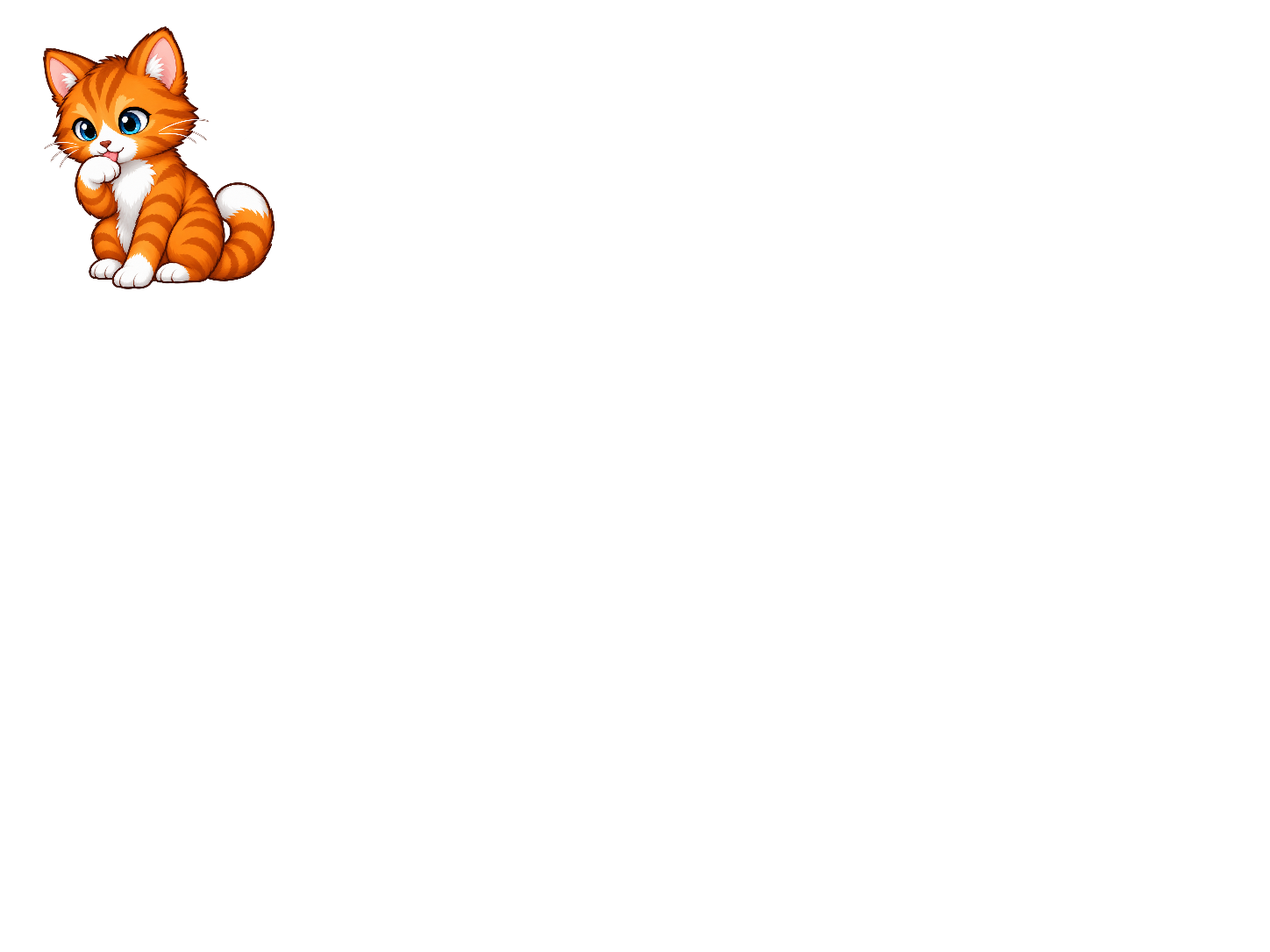
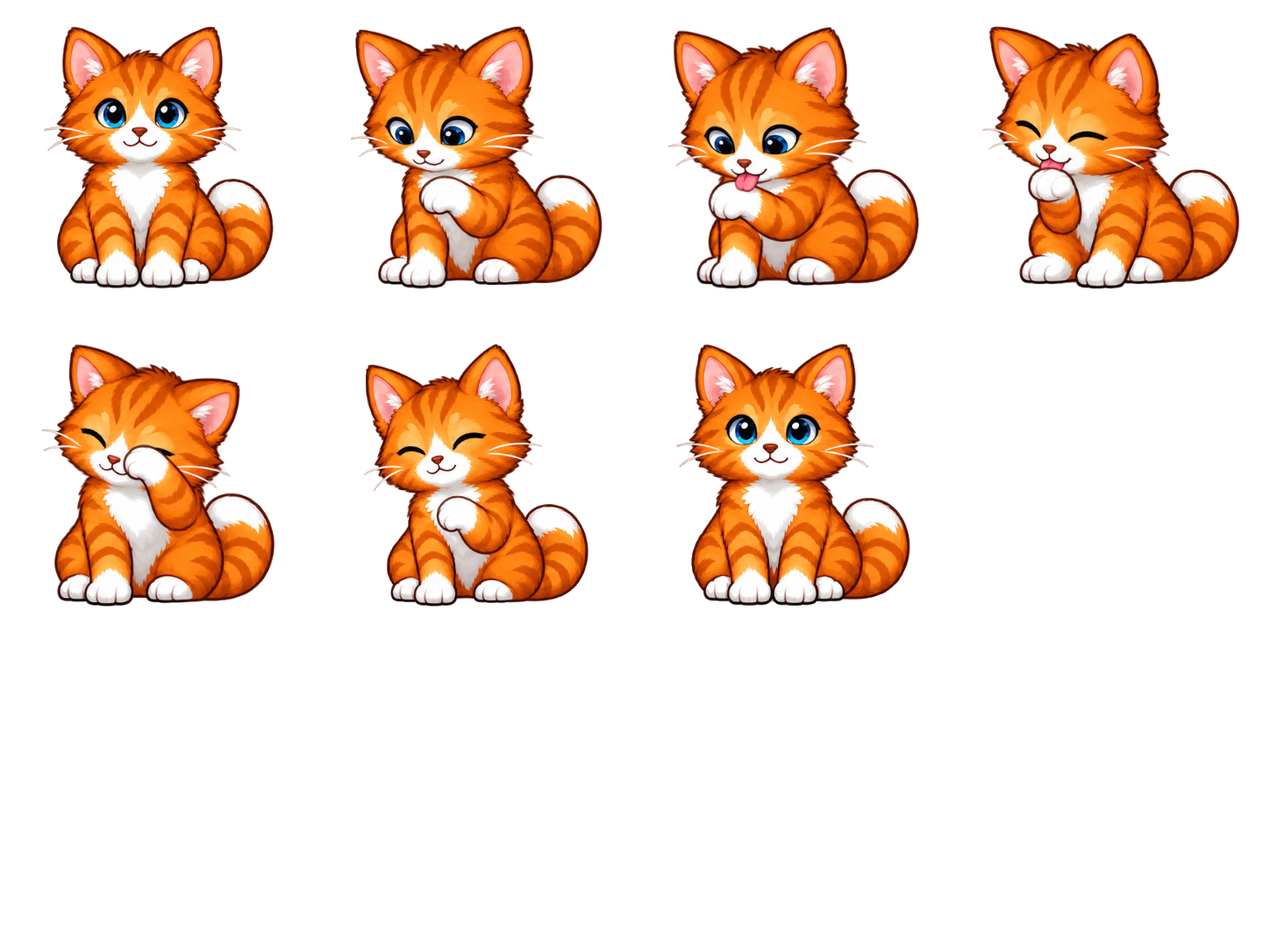
Refine yarn route and cat movement

diff --git a/src/hero-cat.js b/src/hero-cat.js
@@ -27,6 +27,7 @@ const atlasPaths = {
   fall: '/art/cat-fall-soft-v1/atlas.json',
   transition: '/art/cat-transition-soft-v1/atlas.json',
   groom: '/art/cat-groom-soft-v1/atlas.json',
+  route: '/art/cat-route-soft-v1/atlas.json',
 };
 const EXPECTED_VIEWPORT = {width:128,height:128,anchorX:64,anchorY:113};
 const HEAD_TOP_IN_FRAME = 27.5;
@@ -36,10 +37,13 @@ const SCARE_SCROLL = 30;
 const IDLE_SCROLL_SPAN = 96;
 const IDLE_IDS = ['idle-1','idle-2'];
 const FALL_GLOBAL_START = IDLE_IDS.length;
+const GROOM_POSE_IDS = ['groom-lick-1','groom-lick-2','groom-lick-3','groom-lick-4','groom-wipe-1','groom-lower-paw','groom-lick-settle'];
+const GROOM_GLOBAL_START = FALL_GLOBAL_START + FALL_SEQUENCE.length;
+const ROUTE_JUMP_IDS = ['route-jump-left-crouch','route-jump-left-launch','route-jump-left-airborne','route-jump-left-descend','route-jump-left-contact','route-jump-left-settle'];
+const ROUTE_GLOBAL_START = GROOM_GLOBAL_START + GROOM_POSE_IDS.length + 1;
 const ROUTE_LINE = .54;
 const HOP_MAX_SCROLL = 132;
 const GROOM_HOLD_SCROLL = 120;
-const FIRST_SHELF_HOP_SCROLL = 80;
 const YARN_PRECONTACT_SCROLL = 40;
 const ROUTE_POSES = ['fall-8','fall-9','twist-6','fall-8','fall-9','twist-6','fall-8','fall-9'];
 const LANDING_X = 48;
@@ -219,12 +223,18 @@ function setActionPose(id) {
   if(frame) setFallPose(frame);
 }
 
-function setGroomPose() {
-  setPose('groom',0,'groom-lick-1',FALL_GLOBAL_START+FALL_SEQUENCE.length);
+function setGroomPose(index=0) {
+  const pose=clamp(index,0,GROOM_POSE_IDS.length-1);
+  setPose('groom',pose,GROOM_POSE_IDS[pose],GROOM_GLOBAL_START+pose);
 }
 
 function setTogglePressPose() {
-  setPose('transition',12,'toggle-paw-press',FALL_GLOBAL_START+FALL_SEQUENCE.length+1);
+  setPose('transition',12,'toggle-paw-press',GROOM_GLOBAL_START+GROOM_POSE_IDS.length);
+}
+
+function setRouteJumpPose(index) {
+  const pose=clamp(index,0,ROUTE_JUMP_IDS.length-1);
+  setPose('route',pose,ROUTE_JUMP_IDS[pose],ROUTE_GLOBAL_START+pose);
 }
 
 function setWorldOffset(offset) {
@@ -243,7 +253,6 @@ function resetCatToWord() {
 }
 
 function routeAnchorSpecs() {
-  const shelf = yarnScene?.querySelector('.yarn-shelf');
   const ball = number => yarnScene?.querySelector(`[data-yarn="${number}"]`);
   const ballContactScroll = number => Number(ball(number)?.dataset.catContactScroll);
   const ballDropScroll = number => {
@@ -283,12 +292,20 @@ function routeAnchorSpecs() {
       cat?.style.setProperty('--cat-groom-scale',String(scale));
       return {x:control.left+Math.min(100,control.width*.2),y:note.bottom+4+113*scale};
     },line:()=>innerHeight*.9},
-    ...[1,2,3].map(number=>({id:`yarn-shelf-${number}`,host:shelf,arrival:()=>ballContactScroll(number)-YARN_PRECONTACT_SCROLL,point:host=>{
-      const target=ball(number)?.getBoundingClientRect();
-      return target?{x:target.left+target.width/2,y:target.top+6}:{x:host.left+host.width*(.2+.28*(number-1)),y:host.top+innerHeight*.17};
-    },line:()=>innerHeight*.32})),
+    {id:'yarn-pile',host:yarnScene,point:host=>{
+      const initial=ballsForRoute();
+      if(!initial.length) return {x:host.left+host.width*.62,y:host.top+innerHeight*.17};
+      const startX=initial.reduce((sum,item)=>sum+Number(item.dataset.startX||0),0)/initial.length;
+      const ballHalfHeight=initial[0].offsetHeight/2/host.height*1100;
+      const startY=initial.reduce((sum,item)=>sum+Number(item.dataset.startY||0),0)/initial.length-ballHalfHeight;
+      return {x:host.left+startX/1000*host.width,y:host.top+startY/1100*host.height+6};
+    },line:()=>innerHeight*.32},
     ...[1,2,3].map(number=>({id:`yarn-ball-${number}`,host:ball(number),arrival:()=>ballDropScroll(number),point:host=>({x:host.left+host.width/2,y:host.top+6}),line:()=>innerHeight*.42})),
   ].filter(stop=>stop.host);
+}
+
+function ballsForRoute() {
+  return yarnScene?[...yarnScene.querySelectorAll('[data-yarn]')]:[];
 }
 
 function measureTrigger() {
@@ -329,9 +346,7 @@ function measureRouteStops() {
     const authoredArrival=spec.arrival?.();
     let arrival=Number.isFinite(authoredArrival)?Math.max(previousArrival+1,authoredArrival):anchorArrivalScroll(point.y,scrollY,spec.line(),previousArrival+1);
     const gap=Math.max(0,arrival-previousArrival);
-    const duration=spec.id==='yarn-shelf-1'
-      ? Math.min(FIRST_SHELF_HOP_SCROLL,gap)
-      : Math.min(HOP_MAX_SCROLL,gap*.72);
+    const duration=Math.min(HOP_MAX_SCROLL,gap*.72);
     const stop={...spec,arrival,departure:Math.max(previousArrival,arrival-duration),pointAt:spec.point};
     previousArrival=arrival;
     return stop;
@@ -342,9 +357,9 @@ function measureRouteStops() {
       scrollMap[stop.id]=Math.round(stop.arrival);
       scrollMap[`${stop.id}Departure`]=Math.round(stop.departure);
     });
-    const questionStop=routeStops.find(stop=>stop.id==='buyer-question');
-    if(questionStop) scrollMap.yarnStartFloor=Math.round(
-      questionStop.arrival+GROOM_HOLD_SCROLL+FIRST_SHELF_HOP_SCROLL+YARN_PRECONTACT_SCROLL,
+    const pileStop=routeStops.find(stop=>stop.id==='yarn-pile');
+    if(pileStop) scrollMap.yarnStartFloor=Math.round(
+      pileStop.arrival+YARN_PRECONTACT_SCROLL*2,
     );
     [1,2,3].forEach(number=>{
       const contact=Number(yarnScene?.querySelector(`[data-yarn="${number}"]`)?.dataset.catContactScroll);
@@ -410,7 +425,7 @@ function updateScene() {
     scrollCounterLabel.textContent = `scroll ${Math.round(scrollY)}px`;
     frameCounter.dataset.scrollY = String(Math.round(scrollY));
   }
-  if (!cat || !word || !world || !scene || !atlases.idle || !atlases.fall || !atlases.transition || !atlases.groom) return;
+  if (!cat || !word || !world || !scene || !atlases.idle || !atlases.fall || !atlases.transition || !atlases.groom || !atlases.route) return;
 
   if (reducedMotion.matches) {
     resetCatToWord();
@@ -526,8 +541,13 @@ function updateScene() {
     const arc=Math.min(116,Math.max(34,Math.abs(target.x-source.x)*.18+Math.abs(target.y-source.y)*.12));
     showFlyingCat(source.x+(target.x-source.x)*progress,
       source.y+(target.y-source.y)*progress-4*arc*progress*(1-progress));
-    const pose=ROUTE_POSES[(Math.max(0,currentIndex)+Math.floor(progress*2))%ROUTE_POSES.length];
-    setActionPose(pose);
+    if(current.id==='insight-tile' && next.id==='text-wall') {
+      const pose=progress<.16?0:progress<.34?1:progress<.68?2:3;
+      setRouteJumpPose(pose);
+    } else {
+      const pose=ROUTE_POSES[(Math.max(0,currentIndex)+Math.floor(progress*2))%ROUTE_POSES.length];
+      setActionPose(pose);
+    }
     scene.dataset.catScenePhase=`jumping-to-${next.id}`;
     scene.dataset.catSceneProgress=String(progress.toFixed(3));
     scene.dataset.catRouteStop=next.id;
@@ -548,11 +568,12 @@ function updateScene() {
     scene.dataset.catScenePhase='grooming';
     scene.dataset.catNeedsArt='';
     cat.dataset.groomAction='paw-lick';
-    setGroomPose();
+    const groomProgress=clamp((y-current.arrival)/GROOM_HOLD_SCROLL);
+    setGroomPose(Math.min(GROOM_POSE_IDS.length-1,Math.floor(groomProgress*GROOM_POSE_IDS.length)));
   } else {
     scene.dataset.catScenePhase=current.id.startsWith('yarn-')?'yarn-contact':'landed';
     scene.dataset.catNeedsArt='';
-    if(current.id==='text-wall') setActionPose('land-6');
+    if(current.id==='text-wall') setRouteJumpPose(y<current.arrival+12?4:5);
     else if(current.id==='card-toggle') setTogglePressPose();
     else if(current.id==='yarn-ball-3') setActionPose('land-6');
     else if(current.id.startsWith('yarn-')) setActionPose('fall-10');

diff --git a/src/playground.css b/src/playground.css
@@ -58,9 +58,9 @@ h2{font-size:clamp(42px,4.5vw,65px);font-weight:500;letter-spacing:-.06em;line-h
 .yarn-strand{stroke-dasharray:none;stroke-dashoffset:0;stroke-width:2.5}
 .yarn-anchor{fill:var(--muted)}
 .yarn-option{transform:translateX(-50%);text-align:center;white-space:nowrap}
-.yarn-1{left:20%;top:19.09%}.yarn-2{left:48%;top:19.09%}.yarn-3{left:76%;top:19.09%}
+.yarn-1{left:52%;top:19.09%}.yarn-2{left:62%;top:19.09%}.yarn-3{left:72%;top:19.09%}
 .option-1{left:20%;top:41.45%}.option-2{left:48%;top:65.09%}.option-3{left:76%;top:90.55%}
-@media(max-width:750px){.yarn-1{left:17%}.yarn-2{left:49%}.yarn-3{left:81%}}
+@media(max-width:750px){.yarn-1{left:25%}.yarn-2{left:40%}.yarn-3{left:55%}}
 
 /* The starting shelf sits beside the heading; its front lip is the drop edge. */
 .yarn-shelf{position:absolute;left:40%;width:58%;top:12%;height:9px;z-index:1;background:var(--accent);border-radius:2px;box-shadow:0 5px 0 color-mix(in srgb,var(--accent),var(--page) 55%)}
@@ -103,8 +103,7 @@ h2{font-size:clamp(42px,4.5vw,65px);font-weight:500;letter-spacing:-.06em;line-h
 .hero-cat.is-scared{transform:rotate(-3deg);transform-origin:64px 113px}
 .cat-anchor-host{position:relative}
 .hero-cat.is-attached{position:absolute;left:0;top:0;bottom:auto;transform:none;z-index:4}
-@keyframes cat-paw-lick{0%,100%{transform:translateY(0) rotate(-1deg) scale(var(--cat-groom-scale,1))}50%{transform:translateY(-2px) rotate(1deg) scale(var(--cat-groom-scale,1))}}
-.hero-cat.is-grooming{transform-origin:64px 113px;animation:cat-paw-lick .42s ease-in-out infinite}
+.hero-cat.is-grooming{transform-origin:64px 113px;transform:scale(var(--cat-groom-scale,1))}
 .hero-cat.is-landed{position:absolute;left:calc(var(--cat-landing-x,48px) - 64px);top:auto;bottom:calc(var(--cat-landing-inset,-8px) - 15px);transform:none;z-index:4}
 .insight-tile{transform-origin:var(--cat-landing-x,48px) calc(100% - var(--cat-landing-inset,-8px))}
 .insight-tile.cat-impacting{transform:translateY(var(--cat-tile-sink,0px)) rotate(var(--cat-tile-rock,0deg));will-change:transform}
@@ -118,7 +117,7 @@ h2{font-size:clamp(42px,4.5vw,65px);font-weight:500;letter-spacing:-.06em;line-h
 @media(max-width:1100px){.hero-bottom{padding-bottom:90px}}
 @media(max-width:750px){.hero-bottom{padding-bottom:85px;margin-top:36px}}
 @media(max-width:480px){.hero-bottom{padding-bottom:85px}}
-@media(prefers-reduced-motion:reduce){.cat-scroll-world,.cat-world-footer{transform:none!important}.cat-world-spacer{height:0!important}.insight-tile.cat-impacting{transform:none!important;will-change:auto}.hero-cat.is-grooming{animation:none}}
+@media(prefers-reduced-motion:reduce){.cat-scroll-world,.cat-world-footer{transform:none!important}.cat-world-spacer{height:0!important}.insight-tile.cat-impacting{transform:none!important;will-change:auto}}
 
 /* The demo preview's local colour toggle is also the cat's activation target. */
 .tool-preview{display:flex;flex-direction:column;align-items:stretch;color:var(--on-dark);transition:transform .25s,background-color .25s,color .25s,box-shadow .25s}.tool-preview-link{display:block;color:inherit;text-decoration:none}.tool-preview-link:focus-visible{outline:3px solid var(--focus);outline-offset:5px;border-radius:2px}.tool-preview .preview-answer{border-color:color-mix(in srgb,currentColor 42%,transparent)}.preview-toggle{align-self:flex-start;margin:auto 0 0;padding:7px 11px;border:1px solid color-mix(in srgb,currentColor 50%,transparent);border-radius:100px;background:transparent;color:inherit;font-size:11px;font-weight:600;line-height:1.2;transition:background-color .2s,color .2s,border-color .2s}.preview-toggle:hover{background:color-mix(in srgb,currentColor 12%,transparent)}.preview-toggle:focus-visible{outline:3px solid var(--focus);outline-offset:3px}.tool-preview[data-active="true"]{background:var(--accent-soft);color:var(--ink);box-shadow:0 8px 0 var(--coral)}.tool-preview[data-active="true"] .preview-answer{border-color:color-mix(in srgb,currentColor 38%,transparent)}.tool-preview[data-active="true"] .preview-dots i:first-child{background:var(--green)}.tool-preview[data-active="true"] .preview-dots i:nth-child(2){background:var(--accent)}.tool-preview[data-active="true"] .preview-dots i:nth-child(3){background:var(--coral)}.tool-preview[data-active="true"] .preview-toggle{background:var(--ink);border-color:var(--ink);color:var(--page)}@media(prefers-reduced-motion:reduce){.tool-preview,.preview-toggle{transition:none}}

diff --git a/src/playground.js b/src/playground.js
@@ -71,7 +71,9 @@ function setRoutes() {
   layout = {
     width: scene.clientWidth, height: scene.clientHeight,
     x: narrow ? [110,430,770] : [180,500,850],
-    starts: narrow ? [250,550,850] : [520,720,920],
+    // Start as one compact blue/coral/green cluster; each ball still rolls to
+    // its original edge and drop position before the cat visits it below.
+    starts: narrow ? [250,400,550] : [520,620,720],
     startY, shelfY,
     ends: [390,650,930],
   };
@@ -81,6 +83,10 @@ function setRoutes() {
   anchors.forEach((anchor,i) => {
     anchor.setAttribute('cx',layout.starts[i]);
     anchor.setAttribute('cy',layout.shelfY);
+  });
+  balls.forEach((ball,i)=>{
+    ball.dataset.startX=String(layout.starts[i]);
+    ball.dataset.startY=String(layout.startY);
   });
   options.forEach((label,i) => {
     label.style.left = `${layout.x[i]/10}%`;

diff --git a/scripts/build-soft-cat-atlases.py b/scripts/build-soft-cat-atlases.py
@@ -102,6 +102,10 @@ def file_pose(name):
     return ('file', name)
 
 
+def grid_file_pose(name, index, cols, rows):
+    return ('grid-file', name, index, cols, rows)
+
+
 # Approved or reviewed poses only. The two repeated holds are intentional:
 # the scroll route has more stable IDs than unique key drawings.
 IDLE = [sheet_pose(0), sheet_pose(1)]
@@ -128,7 +132,8 @@ TRANSITION = [
     file_pose('reference-R9-pose.png'), file_pose('reference-R9-pose.png'),
     file_pose('toggle-paw-press-v1.png'),
 ]
-GROOM = [file_pose('groom-paw-lick-v1.png')]
+GROOM = [grid_file_pose('groom-paw-lick-sequence-v2.png', index, 4, 2) for index in (0, 1, 2, 3, 4, 6, 7)]
+ROUTE = [grid_file_pose('route-jump-left-sequence-v1.png', index, 3, 2) for index in range(6)]
 
 
 def load_pose(spec, cache):
@@ -136,6 +141,17 @@ def load_pose(spec, cache):
         if 'sheet' not in cache:
             cache['sheet'] = decode_png(SOURCE/'style-proof-soft-9pose-recreated-5-6.png')
         return cache['sheet'], spec[1:]
+    if spec[0] == 'grid-file':
+        name, index, cols, rows = spec[1:]
+        if name not in cache:
+            cache[name] = decode_png(SOURCE/name)
+        width,height,_pixels=cache[name]
+        cell_w,cell_h=width/cols,height/rows
+        row,col=divmod(index,cols)
+        return cache[name], (
+            round(col*cell_w),round(row*cell_h),
+            round((col+1)*cell_w),round((row+1)*cell_h),
+        )
     name = spec[1]
     if name not in cache:
         cache[name] = decode_png(SOURCE/name)
@@ -143,18 +159,45 @@ def load_pose(spec, cache):
     return cache[name], (0,0,width,height)
 
 
-def crop_bounds(width, height, pixels, region):
+def crop_bounds(width, height, pixels, region, include=None):
     rx0, ry0, rx1, ry1 = region
     min_x, min_y, max_x, max_y = rx1, ry1, rx0-1, ry0-1
     for y in range(ry0,ry1):
         row = y*width*4
         for x in range(rx0,rx1):
-            if pixels[row+x*4+3] > 8:
+            if pixels[row+x*4+3] > 8 and (include is None or y*width+x in include):
                 min_x, min_y = min(min_x,x), min(min_y,y)
                 max_x, max_y = max(max_x,x), max(max_y,y)
     if max_x < min_x:
         raise ValueError('Pose crop has no visible pixels')
     return min_x,min_y,max_x+1,max_y+1
+
+
+def dominant_alpha_component(width, height, pixels, region):
+    """Keep the cat silhouette and ignore isolated generative speckles in a cell."""
+    x0,y0,x1,y1=region
+    visited=bytearray((x1-x0)*(y1-y0))
+    cell_w=x1-x0
+    largest=[]
+    for y in range(y0,y1):
+        for x in range(x0,x1):
+            local=(y-y0)*cell_w+(x-x0)
+            if visited[local] or pixels[(y*width+x)*4+3] <= 8:
+                continue
+            visited[local]=1
+            queue=[(x,y)]
+            component=[]
+            while queue:
+                px,py=queue.pop()
+                component.append(py*width+px)
+                for ny in range(max(y0,py-1),min(y1,py+2)):
+                    for nx in range(max(x0,px-1),min(x1,px+2)):
+                        near=(ny-y0)*cell_w+(nx-x0)
+                        if not visited[near] and pixels[(ny*width+nx)*4+3] > 8:
+                            visited[near]=1
+                            queue.append((nx,ny))
+            if len(component)>len(largest): largest=component
+    return set(largest)
 
 
 def sample_rgba(width, height, pixels, x, y):
@@ -180,7 +223,8 @@ def sample_rgba(width, height, pixels, x, y):
 
 def place_pose(atlas, frame_index, spec, cache):
     (width,height,source), region = load_pose(spec,cache)
-    x0,y0,x1,y1 = crop_bounds(width,height,source,region)
+    keep=dominant_alpha_component(width,height,source,region)
+    x0,y0,x1,y1 = crop_bounds(width,height,source,region,keep)
     sw,sh = x1-x0,y1-y0
     layout = ART_LAYOUT_BY_SOURCE.get(spec[1], {}) if spec[0] == 'file' else {}
     max_art = layout.get('max_size', ART_MAX)
@@ -195,6 +239,10 @@ def place_pose(atlas, frame_index, spec, cache):
         for dx in range(dw):
             sx = x0 + (dx+0.5)/scale - 0.5
             px = sample_rgba(width,height,source,sx,sy)
+            nearest_x=min(x1-1,max(x0,round(sx)))
+            nearest_y=min(y1-1,max(y0,round(sy)))
+            if nearest_y*width+nearest_x not in keep:
+                px=b'\0\0\0\0'
             dest = ((dy0+dy)*ATLAS_W + dx0+dx)*4
             atlas[dest:dest+4] = px
     return [cell_x,cell_y,CELL,CELL], [
@@ -215,6 +263,7 @@ def build(name, specs, cache):
     image_name = {
         'idle':'idle-atlas.png','fall':'fall-atlas.png',
         'transition':'transition-atlas.png','groom':'groom-atlas.png',
+        'route':'route-atlas.png',
     }[name]
     write_png(folder/image_name,ATLAS_W,atlas_height,image)
     manifest = {
@@ -230,11 +279,15 @@ def build(name, specs, cache):
 def main():
     parser=argparse.ArgumentParser()
     parser.add_argument('--groom-only',action='store_true',help='Build only the new grooming atlas, preserving existing atlas outputs.')
+    parser.add_argument('--route-only',action='store_true',help='Build only the post-landing route-jump atlas.')
     parser.add_argument('--transition-only',action='store_true',help='Build only the transition atlas, preserving other atlas outputs.')
     args=parser.parse_args()
     cache = {}
     if args.groom_only:
         build('groom',GROOM,cache)
+        return
+    if args.route_only:
+        build('route',ROUTE,cache)
         return
     if args.transition_only:
         build('transition',TRANSITION,cache)
@@ -243,6 +296,7 @@ def main():
     build('fall',FALL,cache)
     build('transition',TRANSITION,cache)
     build('groom',GROOM,cache)
+    build('route',ROUTE,cache)
 
 
 if __name__ == '__main__':

diff --git a/AGENTS.md b/AGENTS.md
@@ -3,10 +3,10 @@
 The user's cat direction from 16 October 2026 supersedes the earlier pixel-art style direction below:
 
 - The user decides the cat's path and actions. Implement only the beats they describe; do not restore old animation plans or invent new scenes.
-- The current cat scene starts seated on “content” with an upward gaze. Two quiet idle poses play over a short scroll; idle-3 has been cut, so idle-2 leads into fall-1. As the cat reaches the top edge, it reacts, falls back-first, rights itself and lands at the lower-left of the blue “Insight takes input” tile. Preserve that landing and settle first. Then follow the user's annotated route: jump to the comparison text wall, jump to the “What should I do next?” card and activate its accessible colour toggle, jump to the buyer-question selector for a short paw-lick grooming beat, then tap the blue, coral and green yarn balls as each begins moving and continue to their annotated hanging positions. Keep controls usable and tie motion to scroll so reverse scrolling reconstructs the earlier state. Do not invent additional stops or actions beyond this route.
+- The current cat scene starts seated on “content” with an upward gaze. Two quiet idle poses play over a short scroll; idle-3 has been cut, so idle-2 leads into fall-1. As the cat reaches the top edge, it reacts, falls back-first, rights itself and lands at the lower-left of the blue “Insight takes input” tile. Preserve that landing and settle first. Then follow the user's annotated route: jump left from the tile to the comparison text wall with a clear crouch → launch → flight → paws-down landing arc, jump to the “What should I do next?” card and activate its accessible colour toggle, then reach the buyer-question selector for a real multi-pose paw-lick grooming sequence (not a bobbing still). At the yarn shelf, land once on the compact blue/coral/green starting pile and stay at that single point while the balls roll to their existing edge/drop positions. Preserve the later landings on all three hanging balls in order. Keep controls usable and tie motion to scroll so reverse scrolling reconstructs the earlier state. Do not invent additional stops or actions beyond this route.
 - The user has chosen a new non-pixel direction: keep the cat close to the detailed, softly shaded cartoon in `public/art/cat-motion-proxy-v2/base-model-2.png`. This user-provided sheet is the current character and style reference. Preserve its ginger tabby, blue eyes whenever open, white markings, pink ears, face and body proportions. Keep the source image unchanged. `artifacts/cat-motion-proxy-v2/direction-notes.md` records the approved style, route, fallback, and how the user's animation guidance applies. The old C pixel master and atlases remain preserved rollback/archive material; do not use them as the active style master for new art.
 - The user asked to retain a simplified clean-cartoon option as a fallback. It is saved at `artifacts/cat-motion-proxy-v2/style-proof-flat-v2.png`; use it only if the user redirects to that style.
-- The user reviewed the nine-pose detailed-style sheet and approved continuing after pose 5's missing ear and pose 6's extra limb were recreated. Production now uses the generated transparent poses in `public/art/cat-idle-soft-v1/`, `public/art/cat-fall-soft-v1/`, and `public/art/cat-transition-soft-v1/`. `scripts/build-soft-cat-atlases.py` packs the reviewed source drawings from `artifacts/cat-motion-proxy-v2/`; regenerate all three atlases with that script after changing a source pose. The active source list and stable ID crosswalk are recorded in that script and `artifacts/cat-motion-proxy-v2/qa.md`. Keep each source image and the user-provided `base-model-2.png` unchanged. The rejected green-eyed standing-cat concept and checkerboard-baked landing candidates must not be used. `style-proof-flat-v2.png` remains an approved style fallback only if the user asks to switch.
+- The user reviewed the nine-pose detailed-style sheet and approved continuing after pose 5's missing ear and pose 6's extra limb were recreated. Production uses generated transparent poses in `public/art/cat-idle-soft-v1/`, `public/art/cat-fall-soft-v1/`, `public/art/cat-transition-soft-v1/`, `public/art/cat-groom-soft-v1/`, and `public/art/cat-route-soft-v1/`. `scripts/build-soft-cat-atlases.py` packs the reviewed source drawings from `artifacts/cat-motion-proxy-v2/`; regenerate the matching atlas after changing a source pose. The active source list and stable ID crosswalk are recorded in that script and `artifacts/cat-motion-proxy-v2/qa.md`. Keep each source image and the user-provided `base-model-2.png` unchanged. The rejected green-eyed standing-cat concept and checkerboard-baked landing candidates must not be used. `style-proof-flat-v2.png` remains an approved style fallback only if the user asks to switch.
 - Each soft atlas has a 128 × 128 viewport with foot anchor (64,113). The wrapper remains 128 × 128; the rendered character should stay close to the previous visible footprint (about 60–80 CSS pixels wide, depending on pose), not fill the wrapper. Each frame uses `cellRects` to clip its source cell and a normalized `viewBox` to keep a consistent scale and anchor. The renderer keeps a persistent SVG image layer per atlas and decodes every sheet before revealing the cat; it completes a frame's crop and viewBox before switching layers. The old C pixel master and atlases remain preserved as rollback/archive material. The older grooming atlas remains archive material; `public/art/cat-content-c-v1/` and `public/art/cat-content-v1/` are also archived. Do not use archived art as a style master or delete it.
 - Inspect all frames and their transitions before integrating. New art is optional; consistency is mandatory.
 - Keep mobile scroll-driven and controls unobstructed. During the fall, move the blue tile and all following content upward more slowly than natural scrolling, then keep the resulting offset while normal scroll resumes. Never intercept scroll, pin or snap the page, reverse content movement, or pause scrolling. Reduced motion keeps the cat seated on “content” and disables the fall, parallax and impact.
@@ -17,4 +17,4 @@ This folder is the local redesign source. Follow the standing dev-to-main releas
 
 The user explicitly authorized committing and pushing every completed website change to `dev`, then merging the checked change into `main`. `main` is connected to the public Cloudflare release workflow. Keep changes in small, traceable commits, push `dev` promptly after each finished change, and merge/push `main` after appropriate validation. Preserve remote work; do not force-push or discard unrelated changes. The active preview now has the website repository history and `origin` at `https://github.com/wiskersofficial/wiskers-website.git`.
 
-Keep the insight tile at its normal content-driven size. Create the falling room with continuous scroll motion, not extra internal card padding. The temporary cat frame counter is visible in the local dev server and available on deployed pages with `?cat-debug=1`. It pairs 01–02 with idle, 03–24 with the current fall and tile landing, 25 with grooming, and 26 with the toggle press; each label includes the live page scroll offset in CSS pixels. Runtime `twist-1` and the old terminal `fall-12` placeholder were cut at the user's direction. The flight duration stays fixed and recovery still starts at `fall-10`. The README's current revision records the crosswalk from old fall-only counter numbers. When a frame is redone, inspect its immediate previous and next frames, make a fresh bridge pose, then check size, facing, ears, four limbs, tail, and expression continuity before accepting it. A green corner marker in the review sheet means the user approved both the image and its on-page placement; record partial confirmation without marking it green.
+Keep the insight tile at its normal content-driven size. Create the falling room with continuous scroll motion, not extra internal card padding. The temporary cat frame counter is visible in the local dev server and available on deployed pages with `?cat-debug=1`. It pairs 01–02 with idle and 03–24 with the initial fall and tile landing; 25–31 are the paw-lick sequence and 32 is the toggle press. The tile-to-text-wall hop has stable `route-jump-left-*` IDs. Each label includes the live page scroll offset in CSS pixels. Runtime `twist-1` and the old terminal `fall-12` placeholder were cut at the user's direction. The flight duration stays fixed and recovery still starts at `fall-10`. The README's current revision records the crosswalk from old fall-only counter numbers. When a frame is redone, inspect its immediate previous and next frames, make a fresh bridge pose, then check size, facing, ears, four limbs, tail, and expression continuity before accepting it. A green corner marker in the review sheet means the user approved both the image and its on-page placement; record partial confirmation without marking it green.

diff --git a/artifacts/cat-motion-proxy-v2/qa.md b/artifacts/cat-motion-proxy-v2/qa.md
@@ -31,6 +31,14 @@
 - The buyer-question stop uses a dedicated paw-lick pose positioned beside the selector so the control remains usable. Yarn contact scroll values are measured from the actual scene and each ball's travel phases, rather than copied from screenshots.
 - Browser review checked the tile landing, tile-to-text-wall travel, the toggle reaction, selector placement and the final hanging-ball positions. Further visual approval of the new continuation remains with the user.
 
+## Route and pose revision — 16 October 2026
+
+- The yarn start positions now form a compact blue/coral/green cluster (desktop x coordinates 520/620/720; narrow x coordinates 250/400/550). The cat lands once on the top of that pile and stays there while the balls roll to their existing edge/drop positions. The cat then visits the three hanging balls in order. Ball motion and landing positions remain unchanged.
+- `FULL_Cat 2D Pixel Art.zip` was inspected for movement only. Its LICK strip informed the paw raise, tongue contact, cheek wipe and paw-lower beats; its JUMP strip informed anticipation, launch, airborne travel and paws-down recovery. The production art remains in the approved soft cartoon style.
+- `groom-paw-lick-sequence-v2.png` provides seven runtime poses. The generated cell that changed which forepaw was raised is intentionally omitted. The prior whole-sprite rocking animation has been removed; grooming is driven by the 120px selector hold and reverses with scroll.
+- `route-jump-left-sequence-v1.png` provides six left-facing poses for the tile-to-text-wall hop only: crouch, launch, airborne, descent, contact and settle. Contact and settle play after the cat reaches the wall. This replaces the old two-frame right-facing hop without changing its scroll span.
+- Visual browser review at the narrow viewport confirmed the left-facing wall landing, selector clearance, paw/tongue frames, the compact yarn cluster, blue-first movement and reverse return to the start cluster. Production build and syntax checks passed. Desktop-size review remains pending because no desktop browser surface was available in this task; user approval of the new art and placement is still pending.
+
 ## Earlier pixel-atlas review history
 
 - Independent Luna review confirmed the corrected `fall-4` and `twist-2` cells each show four paws/legs and one tail, with no obvious clipping or extra limb.
